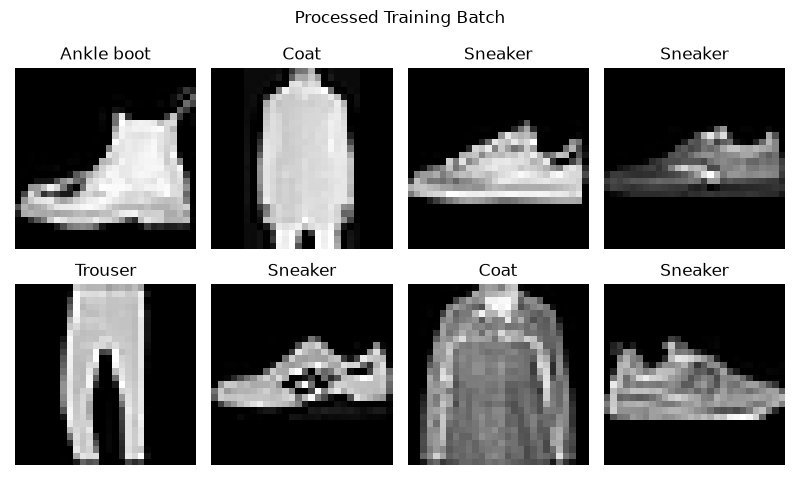
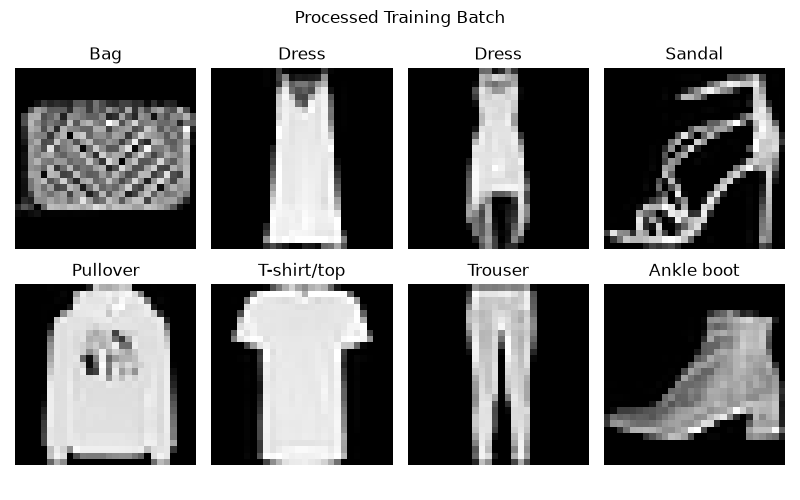
add plot_curves.py and update train.py

diff --git a/assignment1/src/train.py b/assignment1/src/train.py
@@ -1,3 +1,4 @@
+from pandas.io.common import file_exists
 from pathlib import Path
 import csv
 import argparse
@@ -10,6 +11,7 @@ from src.data import build_loaders
 from src.metrics import calculate_metrics
 from src.models.linear import LinearClassifier
 from src.models.mlp import MLP
+from src.metrics import count_parameters, measure_time
 
 device = torch.device(
     "cuda" if torch.cuda.is_available() else "cpu"
@@ -352,12 +354,37 @@ def train_model(
     test_accuracy = test_metrics["accuracy"]
     test_macro_f1 = test_metrics["macro_f1"]
 
+    num_params = count_parameters(model)
+    inference_time = measure_time(model, test_loader, device)
+
     print(
         f"Test  |"
         f"Loss: {test_loss:.4f} |   "
         f"Accuracy: {test_accuracy:.4f} | "
         f"F1: {test_macro_f1:.4f}"
     )
+
+    summary_path = results_dir / "summary.csv"
+    file_exists = summary_path.exists()
+
+    summary_data = {
+        "model": model_name,
+        "num_params": num_params,
+        "best_val_f1": best_val_macro_f1,
+        "test_accuracy": test_accuracy,
+        "test_f1": test_macro_f1,
+        "inference_time": inference_time,
+    }
+
+    with summary_path.open("a", newline="") as f:
+        writer = csv.DictWriter(f, fieldnames=summary_data.keys())
+
+        if not file_exists:
+            writer.writeheader()
+
+        writer.writerow(summary_data)
+
+    print(f"Summary appended to: {summary_path}")
 
 if __name__ == "__main__":
 

diff --git a/assignment1/src/plot_curves.py b/assignment1/src/plot_curves.py
@@ -1,0 +1,32 @@
+import pandas as pd 
+import matplotlib.pyplot as plt
+
+
+df_linear = pd.read_csv("results/linear_history.csv")
+
+df_mlp = pd.read_csv("results/mlp_history.csv")
+
+fig, axes = plt.subplots(nrows=1, ncols=3, figsize=(18, 5))
+
+metrics = [
+    ("loss", "Loss"),
+    ("accuracy", "Accuracy"),
+    ("macro_f1", "Macro F1-Score"),
+]
+
+for ax, (metric, title) in zip(axes, metrics):
+    ax.plot(df_linear["epoch"], df_linear[f"train_{metric}"], label="Linear Train", color="tab:blue")
+    ax.plot(df_mlp["epoch"], df_mlp[f"train_{metric}"], label="MLP Train", color="tab:orange")
+
+    ax.plot(df_linear["epoch"],df_linear[f"val_{metric}"],label=f"Linear Val",color="tab:blue",linestyle="--")
+    ax.plot(df_mlp["epoch"], df_mlp[f"val_{metric}"],label=f"MLP Val",color="tab:orange",linestyle="--")
+
+    ax.set_title(f"Comparison of {title}")
+    ax.set_xlabel("Epoch")
+    ax.set_ylabel(title)
+    ax.grid(True, linestyle="--", alpha=0.6)
+    ax.legend()
+
+plt.tight_layout()
+plt.savefig("results/figures/training_curves.png", dpi=300)
+print(f"The graph has been saved at results/figures/training_curves.png")

diff --git a/assignment1/README.md b/assignment1/README.md
@@ -24,3 +24,9 @@ python -m src.train --model linear --epochs 1 --max-batches 1
 
 python -m src.train --model mlp --epochs 1 --max-batches 1
 
+python -m src.train --model linear --epochs 10
+
+python -m src.train --model mlp --epochs 10
+
+python -m src.plot_curves
+
